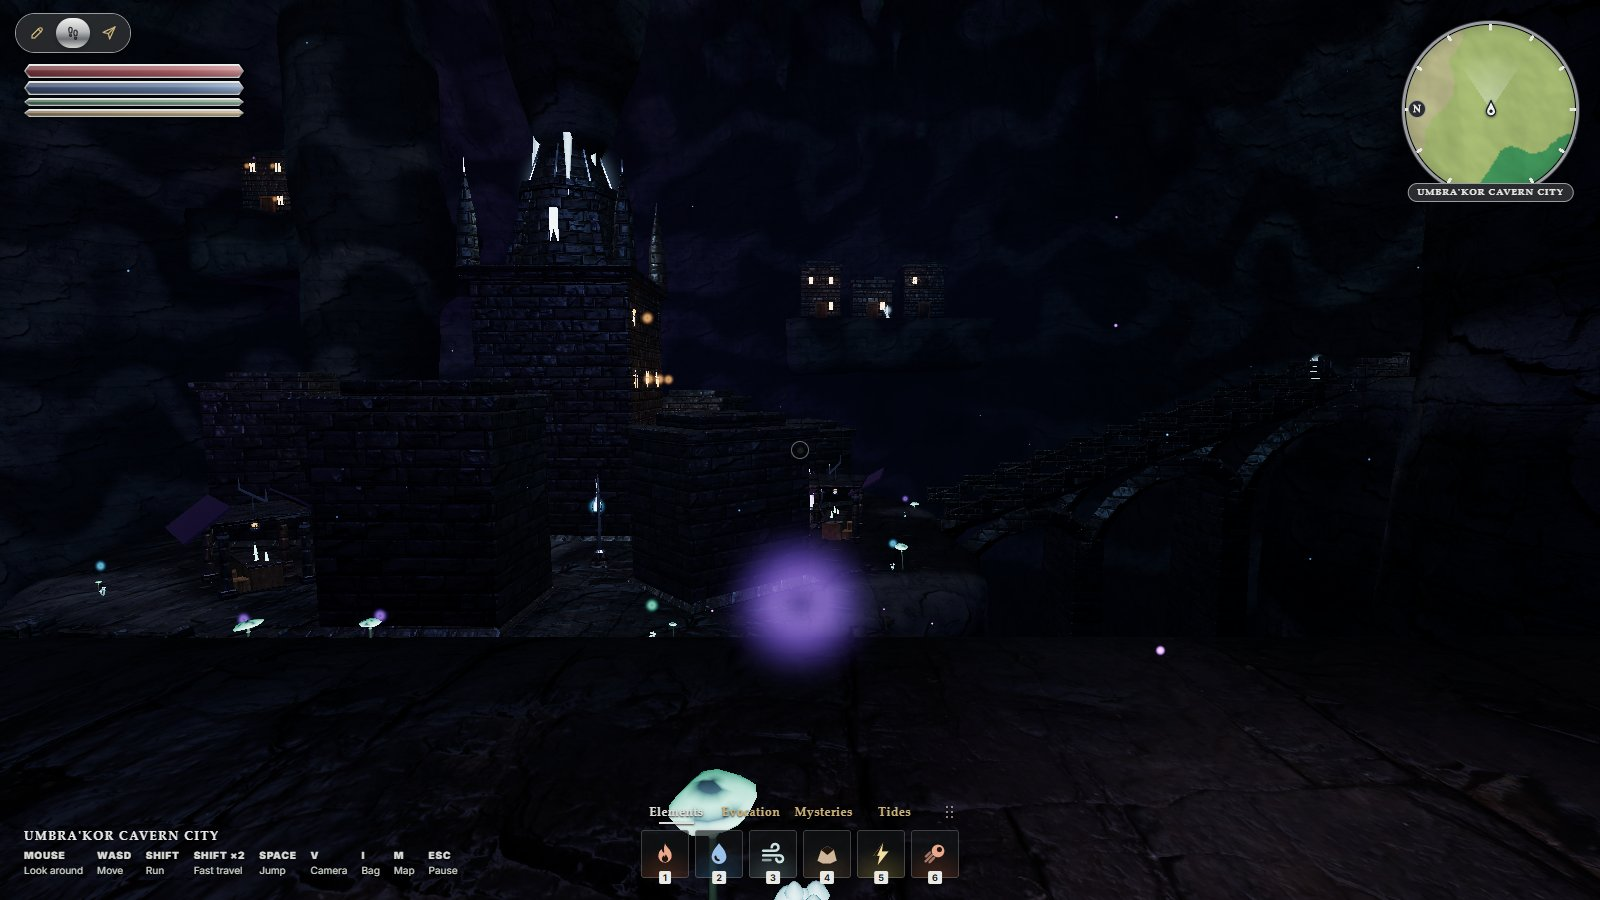
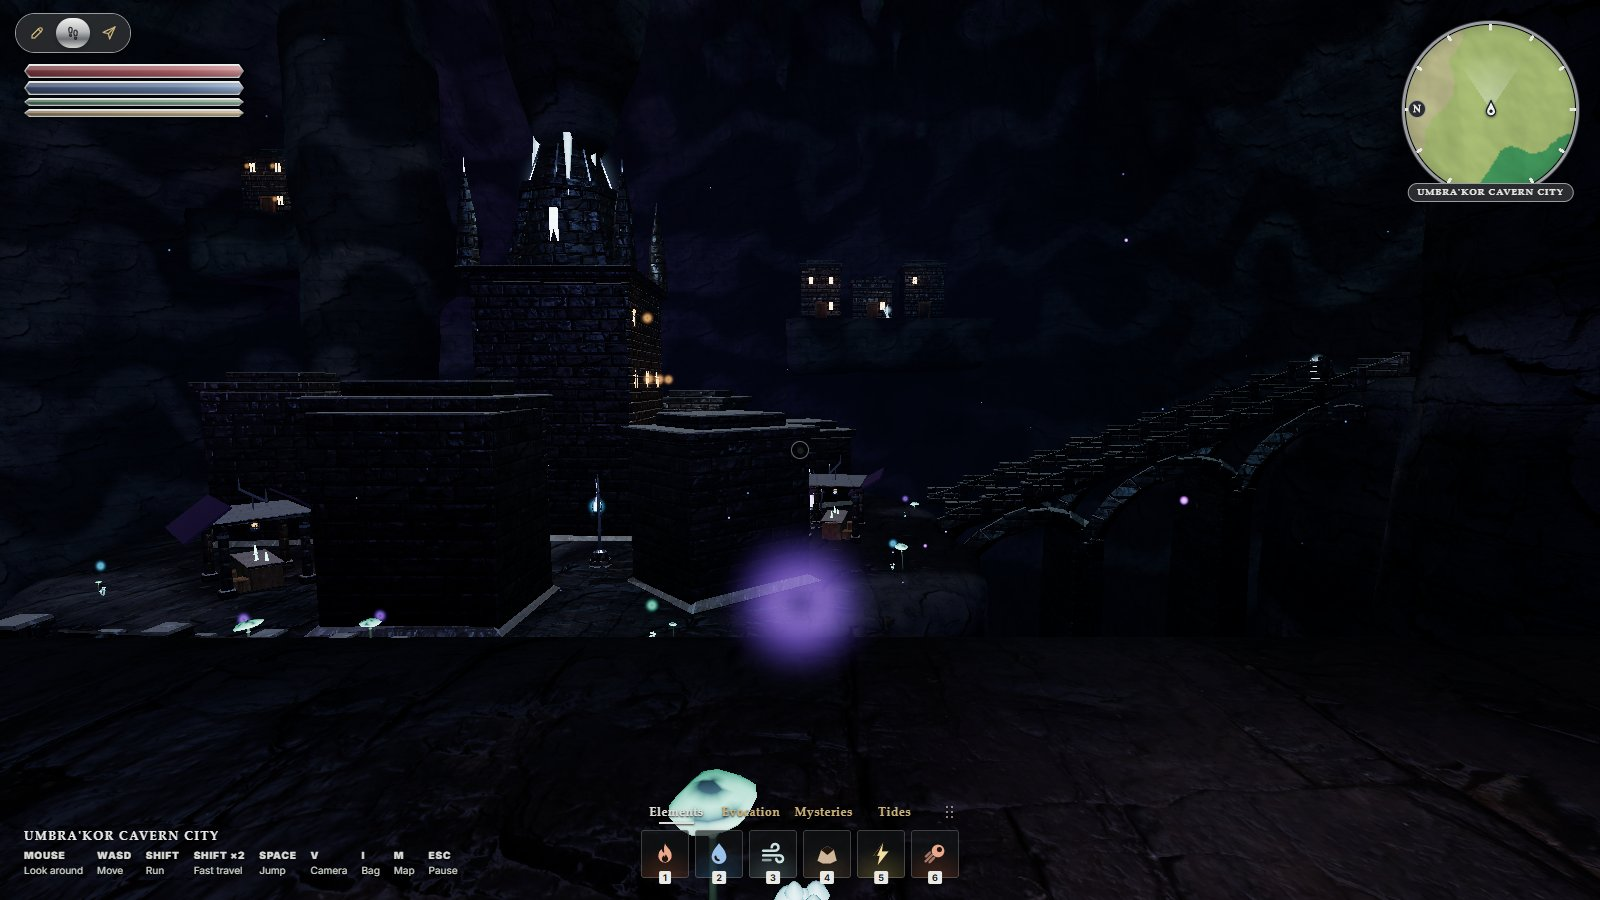
Upgrade indoor carved granite PBR albedo/normal/roughness, fracture weathering, and Dwemer bronze patina

diff --git a/src/editor/locations/materials/StoneWeathering.js b/src/editor/locations/materials/StoneWeathering.js
@@ -1,6 +1,6 @@
 import { abs, clamp, color, float, max, mix, pow, smoothstep, vec3 } from 'three/tsl';
-import { bakedShade, geometryNormal } from './LocationShading.js';
-import { NOISE, locationNoise } from './locationNoise.js';
+import { bakedShade, geometryNormal, triplanarWeights } from './LocationShading.js';
+import { NOISE, locationNoise, triplanarNoise } from './locationNoise.js';
 
 /**
  * Age on worked stone and metal, opt-in per material profile. Both read the
@@ -41,7 +41,17 @@ export function weatherDressedStone({ point, albedo, roughness }, weathering) {
   // Streaks: water and smoke run down a wall, so the noise is stretched along height.
   const run = unit(locationNoise(NOISE.mottle, point.mul(vec3(3.1, 0.22, 3.1))));
   const streak = smoothstep(0.55, 0.85, run).mul(vertical).mul(streaks);
-  out = out.mul(mix(float(1), float(0.72), streak));
+  out = out.mul(mix(float(1), float(0.68), streak));
+
+  // Hairline stone fractures & basal floor dampness grounding columns into the flagstones.
+  const cracksRaw = triplanarNoise(NOISE.cracks, point.mul(18.0), triplanarWeights(geometryNormal));
+  const crackLine = smoothstep(float(0.32), float(0.08), cracksRaw).mul(grime);
+  out = mix(out, out.mul(color('#2d2926')), crackLine.mul(0.62));
+  rough = mix(rough, float(0.96), crackLine.mul(0.55));
+
+  const basalDamp = smoothstep(float(1.35), float(0.0), point.y).mul(vertical).mul(grime);
+  out = out.mul(mix(float(1), float(0.74), basalDamp.mul(0.75)));
+  rough = mix(rough, roughness.mul(0.82), basalDamp.mul(0.4));
 
   // Dust settles on anything facing up, thicker where it is sheltered.
   const settled = smoothstep(0.55, 0.95, up).mul(dust).mul(occluded.mul(0.6).add(0.4));

diff --git a/tools/textures/build-dressed-stone-pbr.py b/tools/textures/build-dressed-stone-pbr.py
@@ -1,0 +1,141 @@
+"""Build high-detail tileable 1024x1024 PBR dressed-stone textures from CC0 noise library.
+
+Reads tileable greyscale maps from assets/source-library/noise/ and writes:
+  - public/assets/textures/locations/dressed-stone-color.webp
+  - public/assets/textures/locations/dressed-stone-normal.webp
+  - public/assets/textures/locations/dressed-stone-rough.webp
+"""
+import os
+import numpy as np
+from PIL import Image
+
+ROOT = os.path.abspath(os.path.join(os.path.dirname(__file__), '..', '..'))
+NOISE_ROOT = os.path.join(ROOT, 'assets', 'source-library', 'noise')
+OUT_DIR = os.path.join(ROOT, 'public', 'assets', 'textures', 'locations')
+SIZE = 1024
+
+
+def load_tile(rel_path, repeats=1):
+    path = os.path.join(NOISE_ROOT, rel_path)
+    img = Image.open(path).convert('L')
+    tile_sz = SIZE // repeats
+    if img.size != (tile_sz, tile_sz):
+        img = img.resize((tile_sz, tile_sz), Image.Resampling.BICUBIC)
+    arr = np.asarray(img, dtype=np.float32) / 255.0
+    # Guarantee 100% seamless periodic borders via raised-cosine edge blend with half-shifted copy
+    t = np.linspace(0.0, 1.0, tile_sz, endpoint=False, dtype=np.float32)
+    wx = 0.5 - 0.5 * np.cos(t * 2.0 * np.pi)
+    w = wx[None, :] * wx[:, None]
+    shifted = np.roll(np.roll(arr, tile_sz // 2, axis=0), tile_sz // 2, axis=1)
+    arr = arr * w + shifted * (1.0 - w)
+    if repeats > 1:
+        arr = np.tile(arr, (repeats, repeats))
+    return arr
+
+
+def smoothstep(edge0, edge1, x):
+    t = np.clip((x - edge0) / max(edge1 - edge0, 1e-6), 0.0, 1.0)
+    return t * t * (3.0 - 2.0 * t)
+
+
+def build():
+    os.makedirs(OUT_DIR, exist_ok=True)
+
+    # Tileable CC0 noise layers at multiple frequencies
+    macro_perlin = load_tile('perlin/perlin-01.png', repeats=1)
+    mid_vein = load_tile('vein/vein-02.png', repeats=2)
+    fine_grain = load_tile('grainy/grainy-01.png', repeats=2)
+    micro_grain = load_tile('grainy/grainy-05.png', repeats=4)
+    cracks_raw = load_tile('cracks/cracks-02.png', repeats=2)
+    streak = load_tile('streak/streak-03.png', repeats=2)
+    pits_raw = load_tile('voronoi/voronoi-03.png', repeats=4)
+
+    # Hairline stone cracks (dark lines where cracks_raw is low)
+    crack_mask = 1.0 - smoothstep(0.06, 0.24, cracks_raw)
+    # Pitted micro-pores (small recessed granite cavities)
+    pore_mask = 1.0 - smoothstep(0.02, 0.14, pits_raw)
+
+    # Subtle diagonal/horizontal hand-chisel mason's tooling grooves (100% periodic)
+    ys, xs = np.mgrid[0:SIZE, 0:SIZE].astype(np.float32)
+    u = xs / SIZE
+    v = ys / SIZE
+    chisel_wave = 0.5 + 0.5 * np.sin((v * 64.0 + u * 6.0 + macro_perlin * 1.4) * (2.0 * np.pi))
+    chisel_fine = 0.5 + 0.5 * np.sin((v * 128.0 - u * 12.0 + mid_vein * 1.2) * (2.0 * np.pi))
+    chisel = 0.65 * chisel_wave + 0.35 * chisel_fine
+
+    # Rich carved dwarven granite albedo: warm/cool quarry beds + mineral veining + quartz/mica speckle + cracks
+    cool_stone = np.array([0.48, 0.49, 0.52], dtype=np.float32)
+    warm_stone = np.array([0.64, 0.60, 0.54], dtype=np.float32)
+    vein_dark = np.array([0.33, 0.32, 0.31], dtype=np.float32)
+    crack_col = np.array([0.16, 0.15, 0.14], dtype=np.float32)
+
+    tone_mix = smoothstep(0.22, 0.78, macro_perlin * 0.7 + streak * 0.3)
+    albedo = cool_stone[None, None, :] * (1.0 - tone_mix[..., None]) + warm_stone[None, None, :] * tone_mix[..., None]
+
+    # Mineral vein banding
+    vein_factor = smoothstep(0.35, 0.78, mid_vein) * 0.28
+    albedo = albedo * (1.0 - vein_factor[..., None]) + vein_dark[None, None, :] * vein_factor[..., None]
+
+    # Crystalline granite mica (dark) & quartz (pale) speckles
+    dark_mica = smoothstep(0.68, 0.88, fine_grain) * 0.32 + smoothstep(0.72, 0.92, micro_grain) * 0.24
+    pale_quartz = smoothstep(0.74, 0.92, 1.0 - fine_grain) * 0.20 + smoothstep(0.76, 0.94, 1.0 - micro_grain) * 0.16
+    albedo = albedo * (1.0 - dark_mica[..., None]) + pale_quartz[..., None] * np.array([0.78, 0.76, 0.72], dtype=np.float32)
+
+    # Subtle chisel tooling highlights & grime in pores/cracks
+    albedo *= (0.93 + 0.12 * chisel[..., None])
+    albedo *= (1.0 - 0.12 * (1.0 - streak[..., None]))
+    albedo = albedo * (1.0 - pore_mask[..., None] * 0.42) + crack_col[None, None, :] * (pore_mask[..., None] * 0.42)
+    albedo = albedo * (1.0 - crack_mask[..., None] * 0.72) + crack_col[None, None, :] * (crack_mask[..., None] * 0.72)
+    albedo = np.clip(albedo, 0.04, 0.96)
+
+    # Combined heightfield for crisp tangent-space normal map
+    height = (
+        0.24 * macro_perlin
+        + 0.20 * mid_vein
+        + 0.22 * fine_grain
+        + 0.14 * micro_grain
+        + 0.14 * chisel
+        - 0.32 * pore_mask
+        - 0.55 * crack_mask
+    )
+    # Periodic central-difference gradient so normal map tiles with zero seam
+    gx = (np.roll(height, -1, axis=1) - np.roll(height, 1, axis=1)) * 4.8
+    gy = (np.roll(height, -1, axis=0) - np.roll(height, 1, axis=0)) * 4.8
+    nx = -gx
+    ny = gy
+    nz = np.ones_like(height)
+    inv_len = 1.0 / np.sqrt(nx * nx + ny * ny + nz * nz)
+    normal = np.stack([
+        (nx * inv_len) * 0.5 + 0.5,
+        (ny * inv_len) * 0.5 + 0.5,
+        (nz * inv_len) * 0.5 + 0.5,
+    ], axis=2)
+
+    # Roughness map (G channel read by StoneSurface.js; R=AO, G=Roughness, B=0)
+    ao = np.clip(1.0 - crack_mask * 0.55 - pore_mask * 0.35 - (1.0 - chisel) * 0.08, 0.35, 1.0)
+    rough = np.clip(
+        0.74
+        + (0.5 - macro_perlin) * 0.14
+        + (0.5 - chisel) * 0.10
+        - pale_quartz * 0.36
+        + pore_mask * 0.18
+        + crack_mask * 0.22,
+        0.48,
+        0.96,
+    )
+    orm = np.stack([ao, rough, np.zeros_like(rough)], axis=2)
+
+    Image.fromarray((albedo * 255).astype(np.uint8), 'RGB').save(
+        os.path.join(OUT_DIR, 'dressed-stone-color.webp'), 'WEBP', quality=90
+    )
+    Image.fromarray((np.clip(normal, 0, 1) * 255).astype(np.uint8), 'RGB').save(
+        os.path.join(OUT_DIR, 'dressed-stone-normal.webp'), 'WEBP', quality=92
+    )
+    Image.fromarray((orm * 255).astype(np.uint8), 'RGB').save(
+        os.path.join(OUT_DIR, 'dressed-stone-rough.webp'), 'WEBP', quality=90
+    )
+    print('Wrote 1024x1024 dressed-stone-{color,normal,rough}.webp')
+
+
+if __name__ == '__main__':
+    build()
